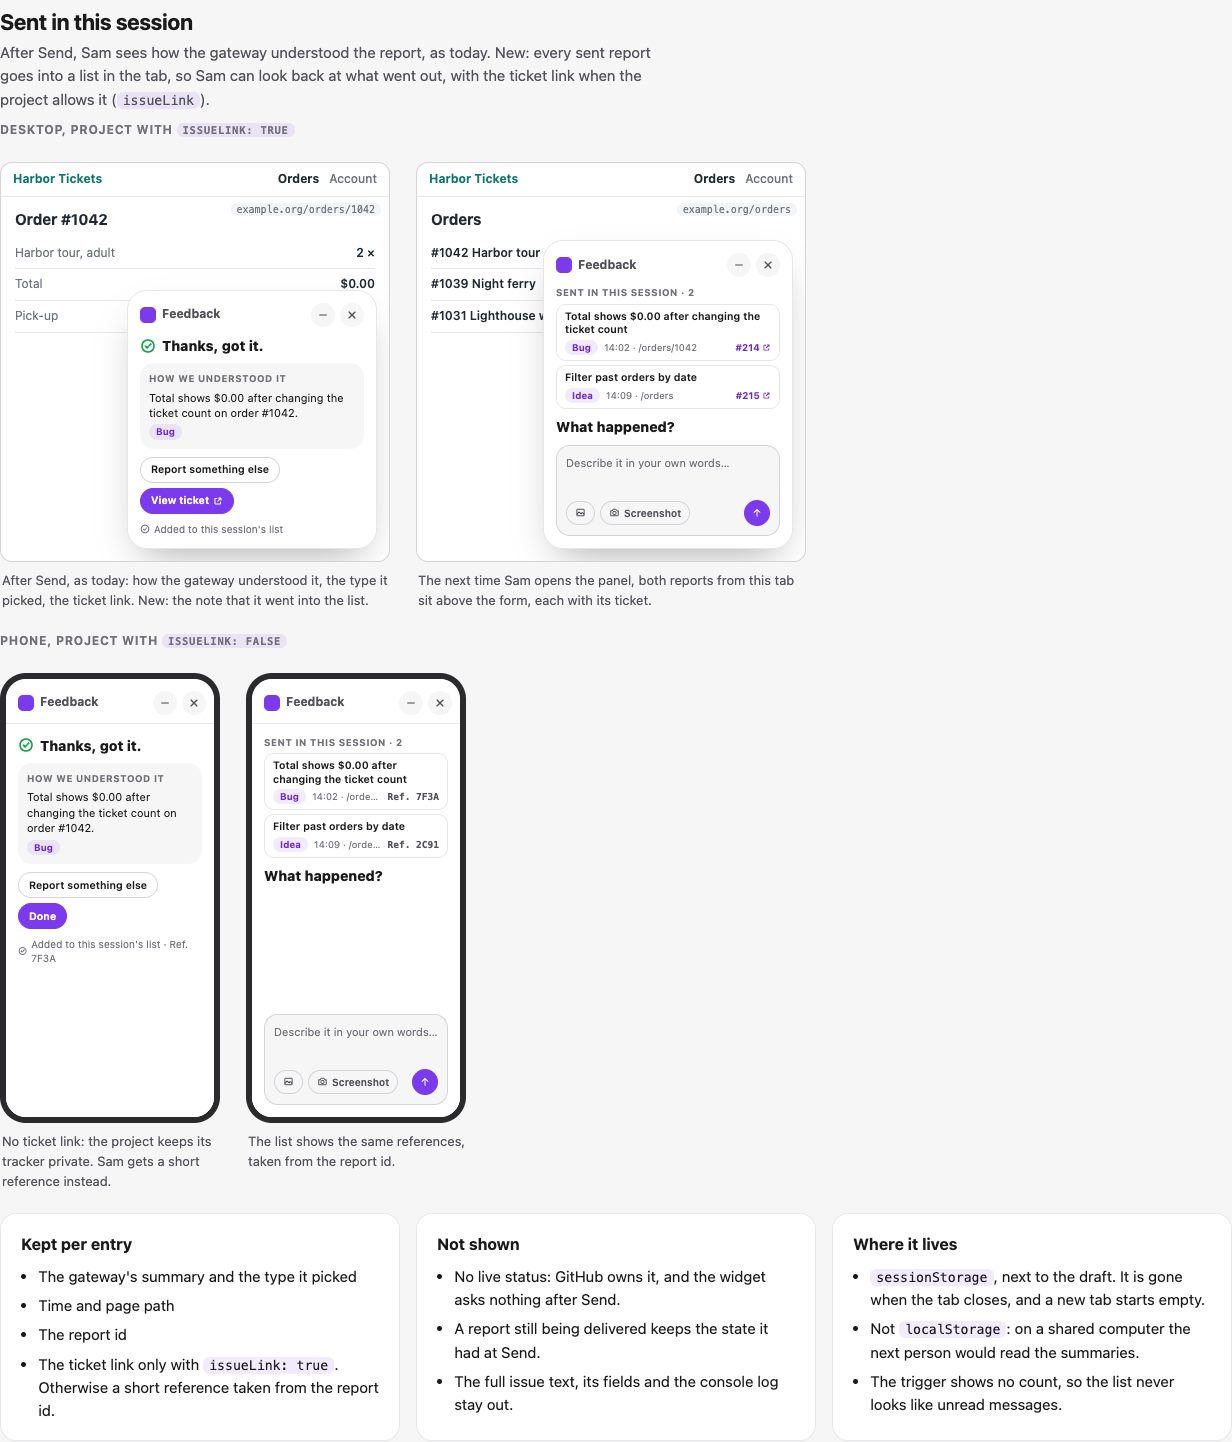
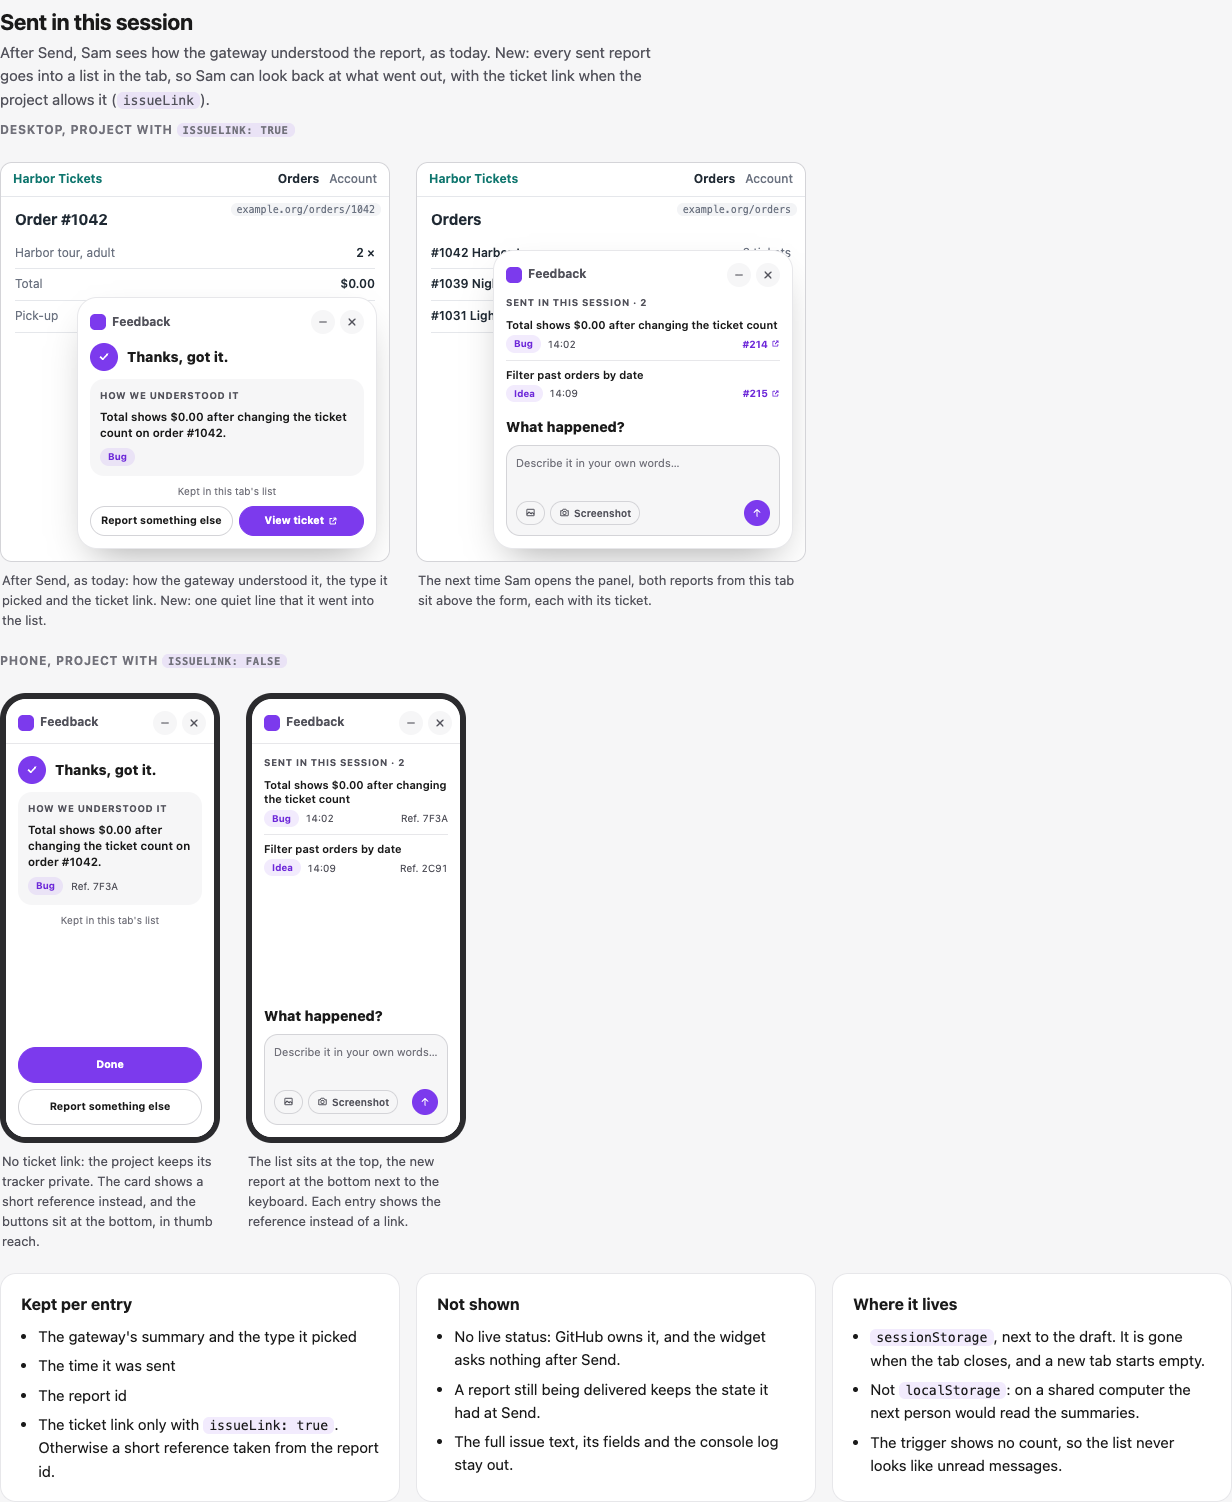
docs: align the #170 sent list with the widget's done view
The done card now uses the widget's own pattern: the check in an
accent circle, the summary in the strong weight, equal-width buttons
in a row on desktop and stacked at the bottom on a phone. Sent
reports form a divided list instead of nested cards and show type,
time and the ticket or reference. On a phone the new report sits at
the bottom and the list at the top.

Refs #170

diff --git a/docs/design/mockups/minimize-panel.html b/docs/design/mockups/minimize-panel.html
@@ -84,7 +84,7 @@ table.cmp tr:last-child td{border-bottom:0}
 .w-x svg{width:12px;height:12px}
 .w-x.new{outline:2px solid var(--w-acc);outline-offset:1px;color:var(--w-acc-text)}
 .w-body{display:flex;flex-direction:column;gap:8px}
-.phone .w-body{padding:12px;flex:1}
+.phone .w-body{padding:12px;flex:1;min-height:0}
 .w-h{font-size:14px;font-weight:800;margin:0}
 .w-types{display:flex;gap:4px}
 .w-type{font-size:10px;font-weight:600;border:1px solid var(--w-line2);border-radius:999px;padding:2px 8px;color:var(--w-ink2)}
@@ -103,28 +103,34 @@ table.cmp tr:last-child td{border-bottom:0}
 .w-send svg{width:12px;height:12px}
 /* done card and session history */
 .desk.tall{height:400px}
-.w-done{display:flex;align-items:center;gap:6px;font-size:14px;font-weight:800;margin:0}
-.w-done svg{width:16px;height:16px;color:#16a34a}
-.w-card{background:var(--w-soft);border-radius:14px;padding:9px;display:flex;flex-direction:column;gap:4px;align-items:flex-start}
-.w-eye{font-size:9.5px;font-weight:700;letter-spacing:.05em;text-transform:uppercase;color:var(--w-muted)}
-.w-card p{margin:0;font-size:11px;line-height:1.4}
-.w-k{font-size:9.5px;font-weight:700;color:var(--w-acc-text);background:var(--w-acc-soft);border-radius:999px;padding:1px 7px}
-.w-btnrow{display:flex;gap:5px;flex-wrap:wrap}
-.w-btn{height:26px;border:1px solid var(--w-line2);border-radius:999px;padding:0 10px;font-size:10.5px;font-weight:600;display:inline-flex;align-items:center;gap:4px;color:var(--w-ink)}
-.w-btn.pri{background:var(--w-acc);border-color:var(--w-acc);color:#fff}
+.w-done{display:flex;align-items:center;gap:9px;font-size:14px;font-weight:800;margin:0}
+.w-check{width:28px;height:28px;flex:none;border-radius:999px;background:var(--w-acc);color:#fff;display:grid;place-items:center}
+.w-check svg{width:14px;height:14px}
+.w-card{background:var(--w-soft);border-radius:14px;padding:10px;display:flex;flex-direction:column;gap:7px}
+.w-eye{font-size:9.5px;font-weight:700;letter-spacing:.06em;text-transform:uppercase;color:var(--w-ink2)}
+.w-card p{margin:0;font-size:11.5px;line-height:1.4;font-weight:600}
+.w-card .m{display:flex;align-items:center;gap:8px;font-size:10px;color:var(--w-ink2);font-variant-numeric:tabular-nums}
+.w-k{font-size:9.5px;font-weight:700;color:var(--w-acc-text);background:var(--w-acc-soft);border-radius:999px;padding:2px 8px}
+.w-btnrow{display:flex;gap:6px}
+.w-btn{flex:1;height:30px;border:1px solid var(--w-acc);border-radius:999px;padding:0 10px;font-size:10.5px;font-weight:700;display:inline-flex;align-items:center;justify-content:center;gap:4px;background:var(--w-acc);color:#fff;white-space:nowrap}
+.w-btn.gh{background:transparent;border-color:var(--w-line2);color:var(--w-ink)}
 .w-btn svg{width:10px;height:10px}
-.w-note{font-size:10px;color:var(--w-muted);display:flex;align-items:center;gap:4px}
-.w-note svg{width:10px;height:10px}
-.w-hist{display:flex;flex-direction:column;gap:4px}
-.w-hist h5{margin:0;font-size:9.5px;letter-spacing:.05em;text-transform:uppercase;color:var(--w-muted)}
-.w-entry{border:1px solid var(--w-line);border-radius:10px;padding:5px 8px;display:flex;flex-direction:column;gap:3px}
-.w-entry p{margin:0;font-size:10.5px;font-weight:600;line-height:1.3}
-.w-entry .m{display:flex;gap:6px;align-items:center;font-size:9.5px;color:var(--w-muted)}
-.w-entry .lk{flex:none;margin-left:auto;font-weight:700;color:var(--w-acc-text);display:inline-flex;align-items:center;gap:2px}
+.desk.tall .w-panel{width:300px}
+.phone .w-btnrow{flex-direction:column-reverse;margin-top:auto}
+.phone .w-btn{flex:none;height:36px}
+.w-note{font-size:10px;color:var(--w-muted);text-align:center}
+.w-hist{display:flex;flex-direction:column}
+.w-hist h5{margin:0 0 2px;font-size:9.5px;letter-spacing:.06em;text-transform:uppercase;color:var(--w-ink2)}
+.w-entry{display:grid;grid-template-columns:1fr auto;gap:3px 8px;padding:7px 0;border-top:1px solid var(--w-line)}
+.w-entry:first-of-type{border-top:0}
+.w-entry p{margin:0;font-size:11px;font-weight:600;line-height:1.3;grid-column:1/-1}
+.w-entry .m{display:flex;gap:6px;align-items:center;font-size:10px;color:var(--w-ink2);font-variant-numeric:tabular-nums}
+.w-entry .lk{align-self:center;font-size:10px;font-weight:700;color:var(--w-acc-text);display:inline-flex;align-items:center;gap:3px}
 .w-entry .lk svg{width:9px;height:9px}
-.w-entry .ref{flex:none;white-space:nowrap;margin-left:auto;font:600 9.5px ui-monospace,Menlo,monospace;color:var(--w-ink2)}
+.w-entry .ref{align-self:center;font-size:10px;color:var(--w-ink2);font-variant-numeric:tabular-nums}
+.w-new{display:flex;flex-direction:column;gap:8px}
+.phone .w-new{margin-top:auto}
 .w-ph{color:var(--w-muted)}
-.w-entry .tp{min-width:0;overflow:hidden;text-overflow:ellipsis;white-space:nowrap}
 
 /* A: pill */
 .w-mini{position:absolute;right:12px;bottom:12px;display:flex;align-items:center;gap:6px;padding:5px 5px 5px 6px;background:var(--w-bg);border:1px solid var(--w-line2);border-radius:999px;box-shadow:var(--w-shadow)}
@@ -245,7 +251,7 @@ table.cmp tr:last-child td{border-bottom:0}
     <div class="row" id="hist-desk"></div>
     <div class="row" id="hist-phone"></div>
     <div class="cols" style="margin-top:4px">
-      <div class="panel"><h3>Kept per entry</h3><ul><li>The gateway's summary and the type it picked</li><li>Time and page path</li><li>The report id</li><li>The ticket link only with <code>issueLink: true</code>. Otherwise a short reference taken from the report id.</li></ul></div>
+      <div class="panel"><h3>Kept per entry</h3><ul><li>The gateway's summary and the type it picked</li><li>The time it was sent</li><li>The report id</li><li>The ticket link only with <code>issueLink: true</code>. Otherwise a short reference taken from the report id.</li></ul></div>
       <div class="panel"><h3>Not shown</h3><ul><li>No live status: GitHub owns it, and the widget asks nothing after Send.</li><li>A report still being delivered keeps the state it had at Send.</li><li>The full issue text, its fields and the console log stay out.</li></ul></div>
       <div class="panel"><h3>Where it lives</h3><ul><li><code>sessionStorage</code>, next to the draft. It is gone when the tab closes, and a new tab starts empty.</li><li>Not <code>localStorage</code>: on a shared computer the next person would read the summaries.</li><li>The trigger shows no count, so the list never looks like unread messages.</li></ul></div>
     </div>
@@ -280,6 +286,7 @@ const I = {
   chat:'<svg viewBox="0 0 24 24" fill="none" stroke="currentColor" stroke-width="2.2" stroke-linejoin="round"><path d="M5 5h14v10H10l-4 4v-4H5z"/></svg>',
   trash:'<svg viewBox="0 0 24 24" fill="none" stroke="currentColor" stroke-width="2.2" stroke-linecap="round"><path d="M5 7h14M10 7V5h4v2M7 7l1 12h8l1-12"/></svg>',
   check:'<svg viewBox="0 0 24 24" fill="none" stroke="currentColor" stroke-width="2.6" stroke-linecap="round" stroke-linejoin="round"><circle cx="12" cy="12" r="9"/><path d="m8 12 3 3 5-6"/></svg>',
+  ok:'<svg viewBox="0 0 24 24" fill="none" stroke="currentColor" stroke-width="3" stroke-linecap="round" stroke-linejoin="round"><path d="m6 12 4 4 8-9"/></svg>',
   ext:'<svg viewBox="0 0 24 24" fill="none" stroke="currentColor" stroke-width="2.4" stroke-linecap="round" stroke-linejoin="round"><path d="M14 5h5v5M19 5l-8 8M18 14v5H5V6h5"/></svg>',
 };
 const TEXT = 'The total shows $0.00 after I change the number of tickets.';
@@ -319,23 +326,22 @@ const SENT = [
   { s:'Total shows $0.00 after changing the ticket count', k:'Bug', t:'14:02', p:'/orders/1042', n:'#214', r:'7F3A' },
   { s:'Filter past orders by date', k:'Idea', t:'14:09', p:'/orders', n:'#215', r:'2C91' },
 ];
-const entry = (e, link) => `<div class="w-entry"><p>${e.s}</p><span class="m"><span class="w-k">${e.k}</span><span class="tp">${e.t} · ${e.p}</span>${link?`<span class="lk">${e.n}${I.ext}</span>`:`<span class="ref">Ref. ${e.r}</span>`}</span></div>`;
+const entry = (e, link) => `<div class="w-entry"><p>${e.s}</p><span class="m"><span class="w-k">${e.k}</span>${e.t}</span>${link?`<span class="lk">${e.n}${I.ext}</span>`:`<span class="ref">Ref. ${e.r}</span>`}</div>`;
 const head = () => `<div class="w-head"><span class="w-mark"></span>Feedback<span class="w-hb"><span class="w-x" title="Minimize">${I.min}</span><span class="w-x" title="Close">${I.x}</span></span></div>`;
 function histPanel(link){
   return `<div class="w w-panel">${head()}<div class="w-body"><div class="w-hist"><h5>Sent in this session · 2</h5>${SENT.map(e=>entry(e,link)).join('')}</div>
-  <p class="w-h">What happened?</p><div class="w-comp"><div class="w-text w-ph">Describe it in your own words…</div><div class="w-tools"><span class="w-pillb">${I.img}</span><span class="w-pillb">${I.cam}Screenshot</span><span class="w-send">${I.send}</span></div></div></div></div>`;
+  <div class="w-new"><p class="w-h">What happened?</p><div class="w-comp"><div class="w-text w-ph">Describe it in your own words…</div><div class="w-tools"><span class="w-pillb">${I.img}</span><span class="w-pillb">${I.cam}Screenshot</span><span class="w-send">${I.send}</span></div></div></div></div></div>`;
 }
 function donePanel(link){
   const e = SENT[0];
   const btns = link
-    ? `<span class="w-btn">Report something else</span><span class="w-btn pri">View ticket ${I.ext}</span>`
-    : `<span class="w-btn">Report something else</span><span class="w-btn pri">Done</span>`;
-  return `<div class="w w-panel">${head()}<div class="w-body"><p class="w-done">${I.check}Thanks, got it.</p>
-  <div class="w-card"><span class="w-eye">How we understood it</span><p>${e.s} on order #1042.</p><span class="w-k">${e.k}</span></div>
-  <div class="w-btnrow">${btns}</div><span class="w-note">${I.check}${link?'Added to this session\'s list':`Added to this session's list · Ref. ${e.r}`}</span></div></div>`;
+    ? `<span class="w-btn gh">Report something else</span><span class="w-btn">View ticket ${I.ext}</span>`
+    : `<span class="w-btn gh">Report something else</span><span class="w-btn">Done</span>`;
+  return `<div class="w w-panel">${head()}<div class="w-body"><p class="w-done"><span class="w-check">${I.ok}</span>Thanks, got it.</p>
+  <div class="w-card"><span class="w-eye">How we understood it</span><p>${e.s} on order #1042.</p><span class="m"><span class="w-k">${e.k}</span>${link?'':`Ref. ${e.r}`}</span></div>
+  <span class="w-note">Kept in this tab's list</span><div class="w-btnrow">${btns}</div></div></div>`;
 }
 
-// Shared: the panel with its new minimize button.
 document.getElementById('shared-row').innerHTML =
   '<h3>Desktop and phone, panel open</h3>' +
   frame('desk','/orders','<div class="dim"></div>'+panel(1,true),'Desktop: the minimize button sits left of close. The first screenshot shows <code>/orders</code>.') +
@@ -406,12 +412,12 @@ document.getElementById('variants').innerHTML = V.map(v => `
 
 document.getElementById('hist-desk').innerHTML =
   '<h3>Desktop, project with <code>issueLink: true</code></h3>' +
-  frame('tall','/orders/1042',donePanel(true),'After Send, as today: how the gateway understood it, the type it picked, the ticket link. New: the note that it went into the list.') +
+  frame('tall','/orders/1042',donePanel(true),'After Send, as today: how the gateway understood it, the type it picked and the ticket link. New: one quiet line that it went into the list.') +
   frame('tall','/orders',histPanel(true),'The next time Sam opens the panel, both reports from this tab sit above the form, each with its ticket.');
 document.getElementById('hist-phone').innerHTML =
   '<h3>Phone, project with <code>issueLink: false</code></h3>' +
-  frame('phone','/orders/1042',donePanel(false),'No ticket link: the project keeps its tracker private. Sam gets a short reference instead.') +
-  frame('phone','/orders',histPanel(false),'The list shows the same references, taken from the report id.');
+  frame('phone','/orders/1042',donePanel(false),'No ticket link: the project keeps its tracker private. The card shows a short reference instead, and the buttons sit at the bottom, in thumb reach.') +
+  frame('phone','/orders',histPanel(false),'The list sits at the top, the new report at the bottom next to the keyboard. Each entry shows the reference instead of a link.');
 
 // Frame theme switch (the page itself follows the system).
 document.querySelectorAll('[data-frame-theme]').forEach(b => b.addEventListener('click', () => {

diff --git a/docs/design/mockups/minimize-panel.md b/docs/design/mockups/minimize-panel.md
@@ -56,11 +56,12 @@ If the budget cannot grow much, C covers single-page apps and phones but loses t
 
 After Send the widget already shows how the gateway understood the report: its summary and the type it picked. New: each sent report also goes into a list in the tab, shown above the form the next time the panel opens.
 
-- An entry holds the gateway's summary, the type, time, page path and report id. The ticket link is kept only when the project sets `issueLink: true` (the default). Otherwise the entry and the done card show a short reference taken from the report id.
+- An entry holds the gateway's summary, the type, the time and the report id. The ticket link is kept only when the project sets `issueLink: true` (the default). Otherwise the entry and the done card show a short reference taken from the report id.
 - No live status. GitHub owns the state of an issue, and the widget asks nothing after Send. A report still being delivered keeps the state it had at Send.
 - The full issue text, its fields and the console log are not shown.
 - The list lives in `sessionStorage` next to the draft and is gone when the tab closes. `localStorage` would keep it past the session, and on a shared computer the next person would read the summaries.
 - The trigger shows no count, so the list never looks like unread messages.
+- Layout follows the widget's done view (`src/widget/ui/styles.ts`): the check in an accent circle, the summary in the card's strong weight, buttons of equal width in one row on desktop and stacked at the bottom on a phone. Entries are a divided list, not cards inside the sheet. On a phone the new report sits at the bottom, the list at the top.
 
 ## Decided (2026-11-18)
 
